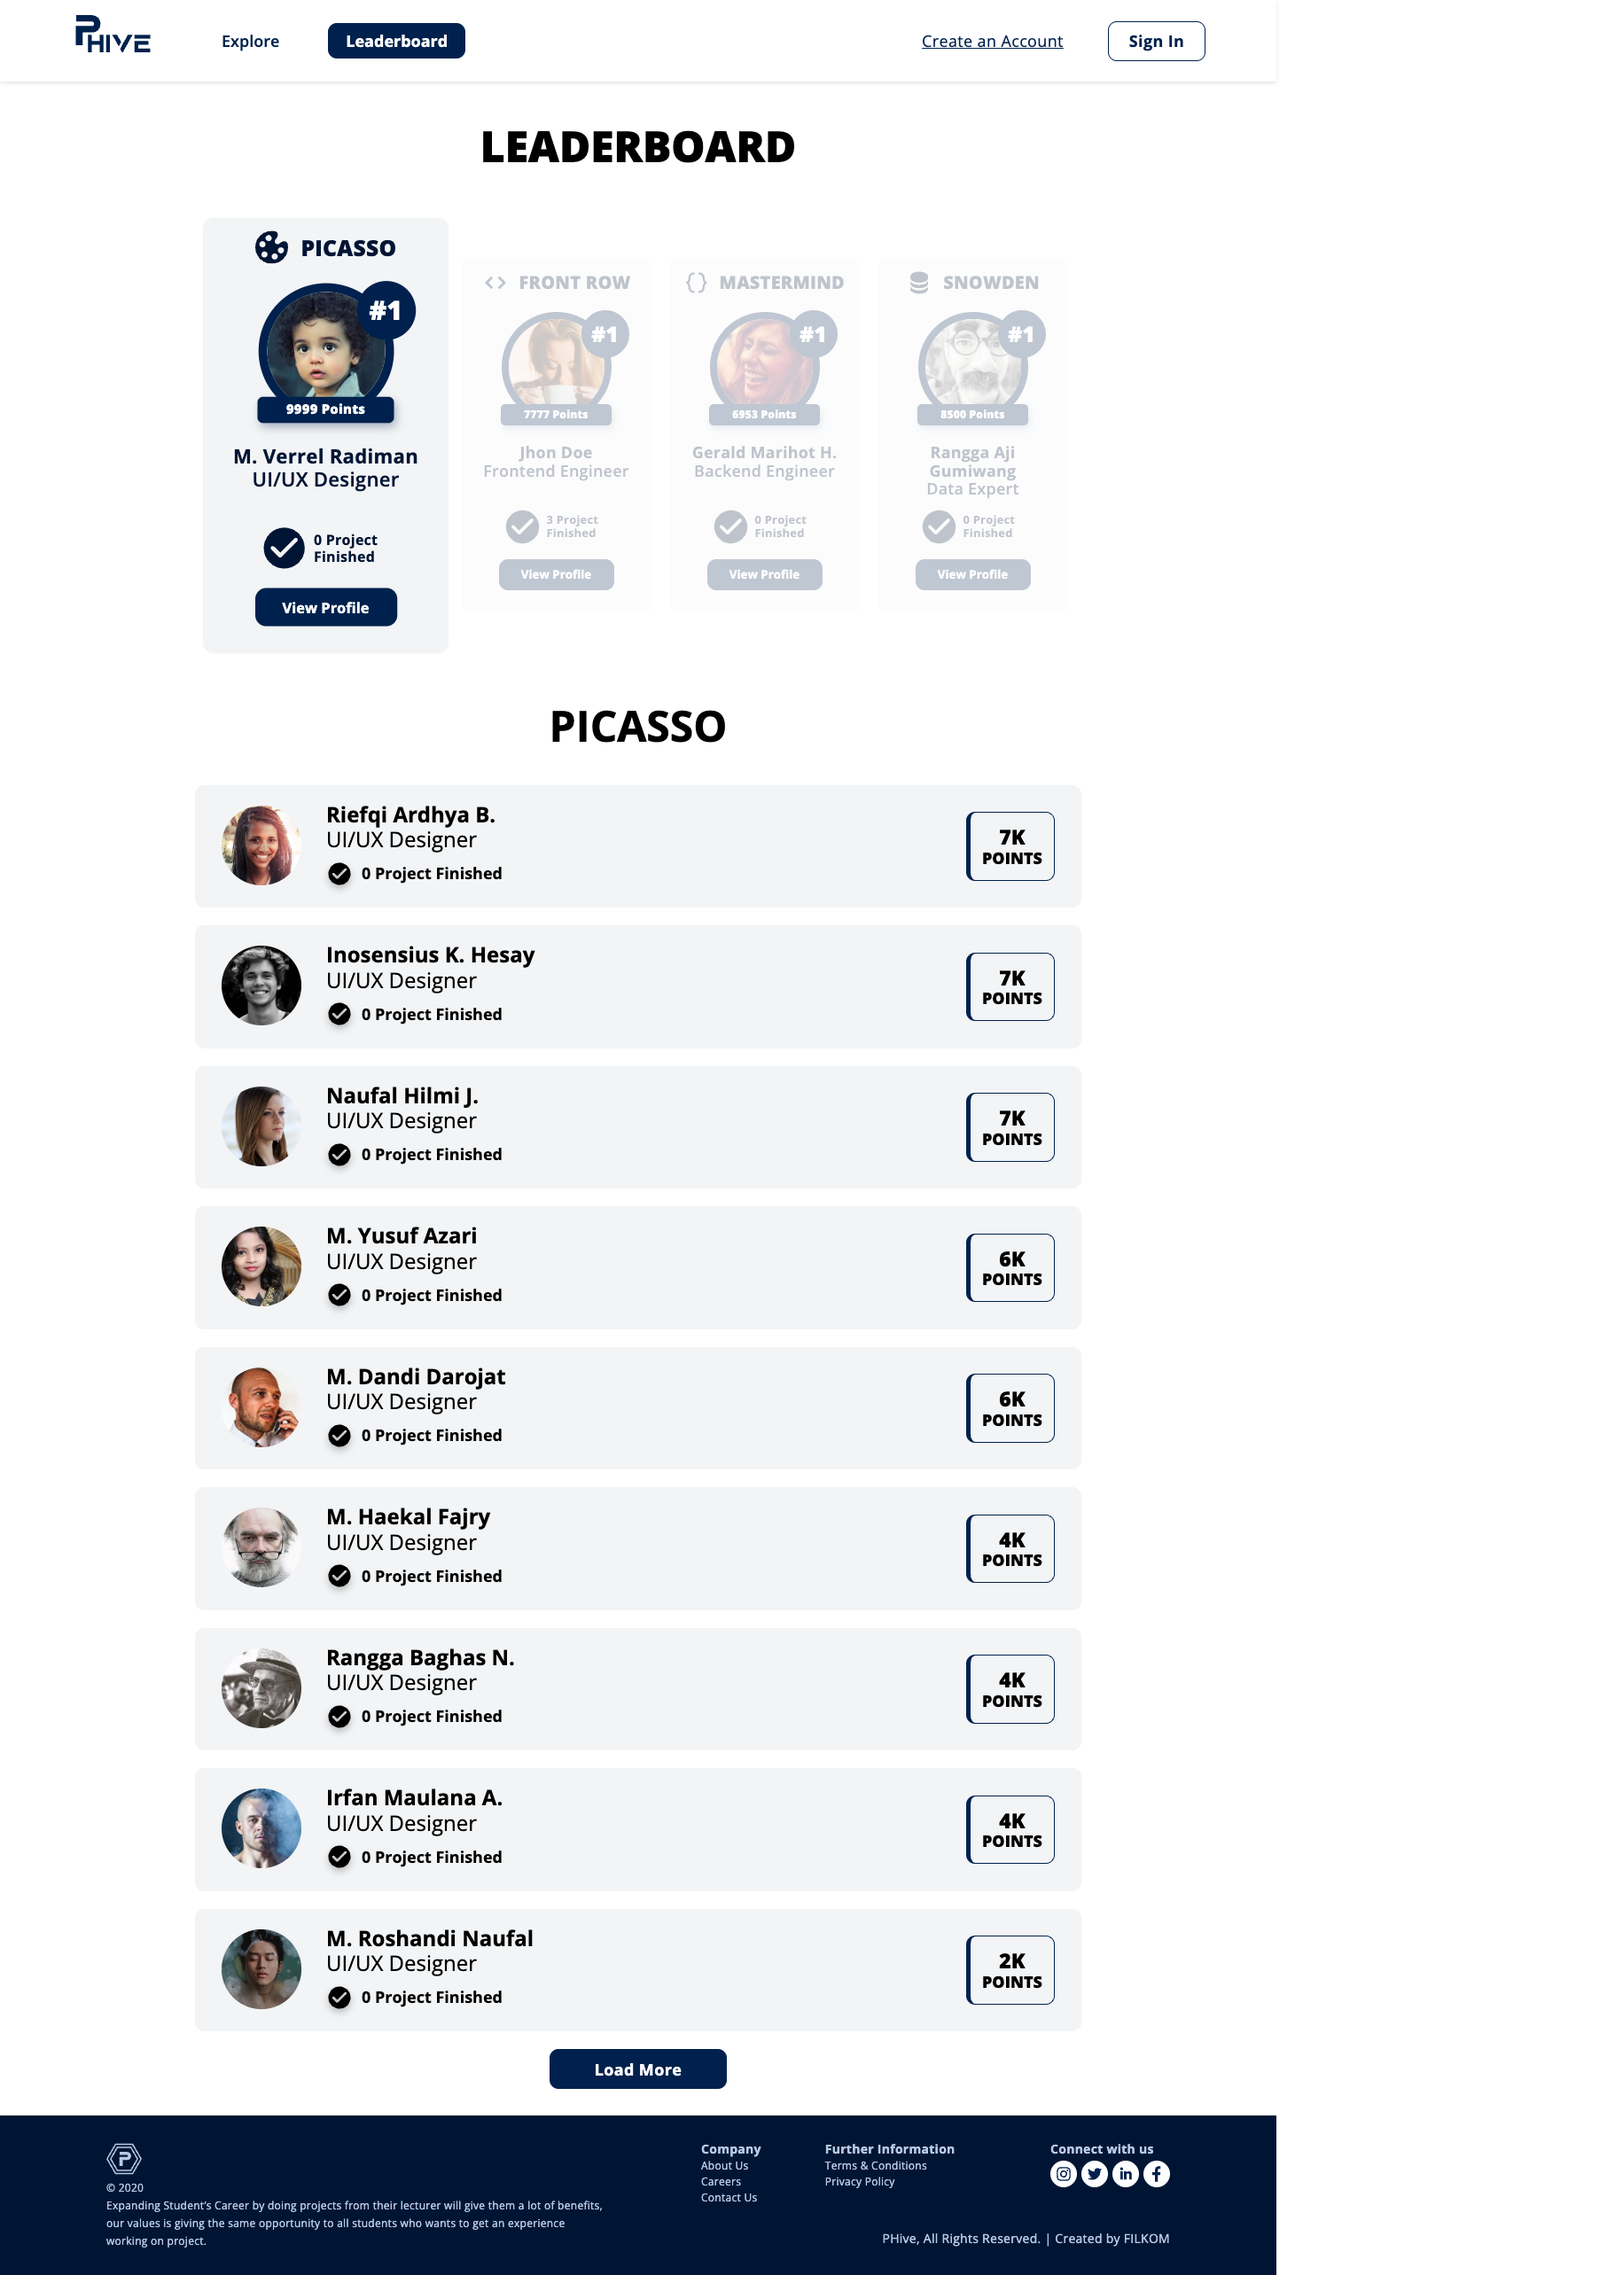
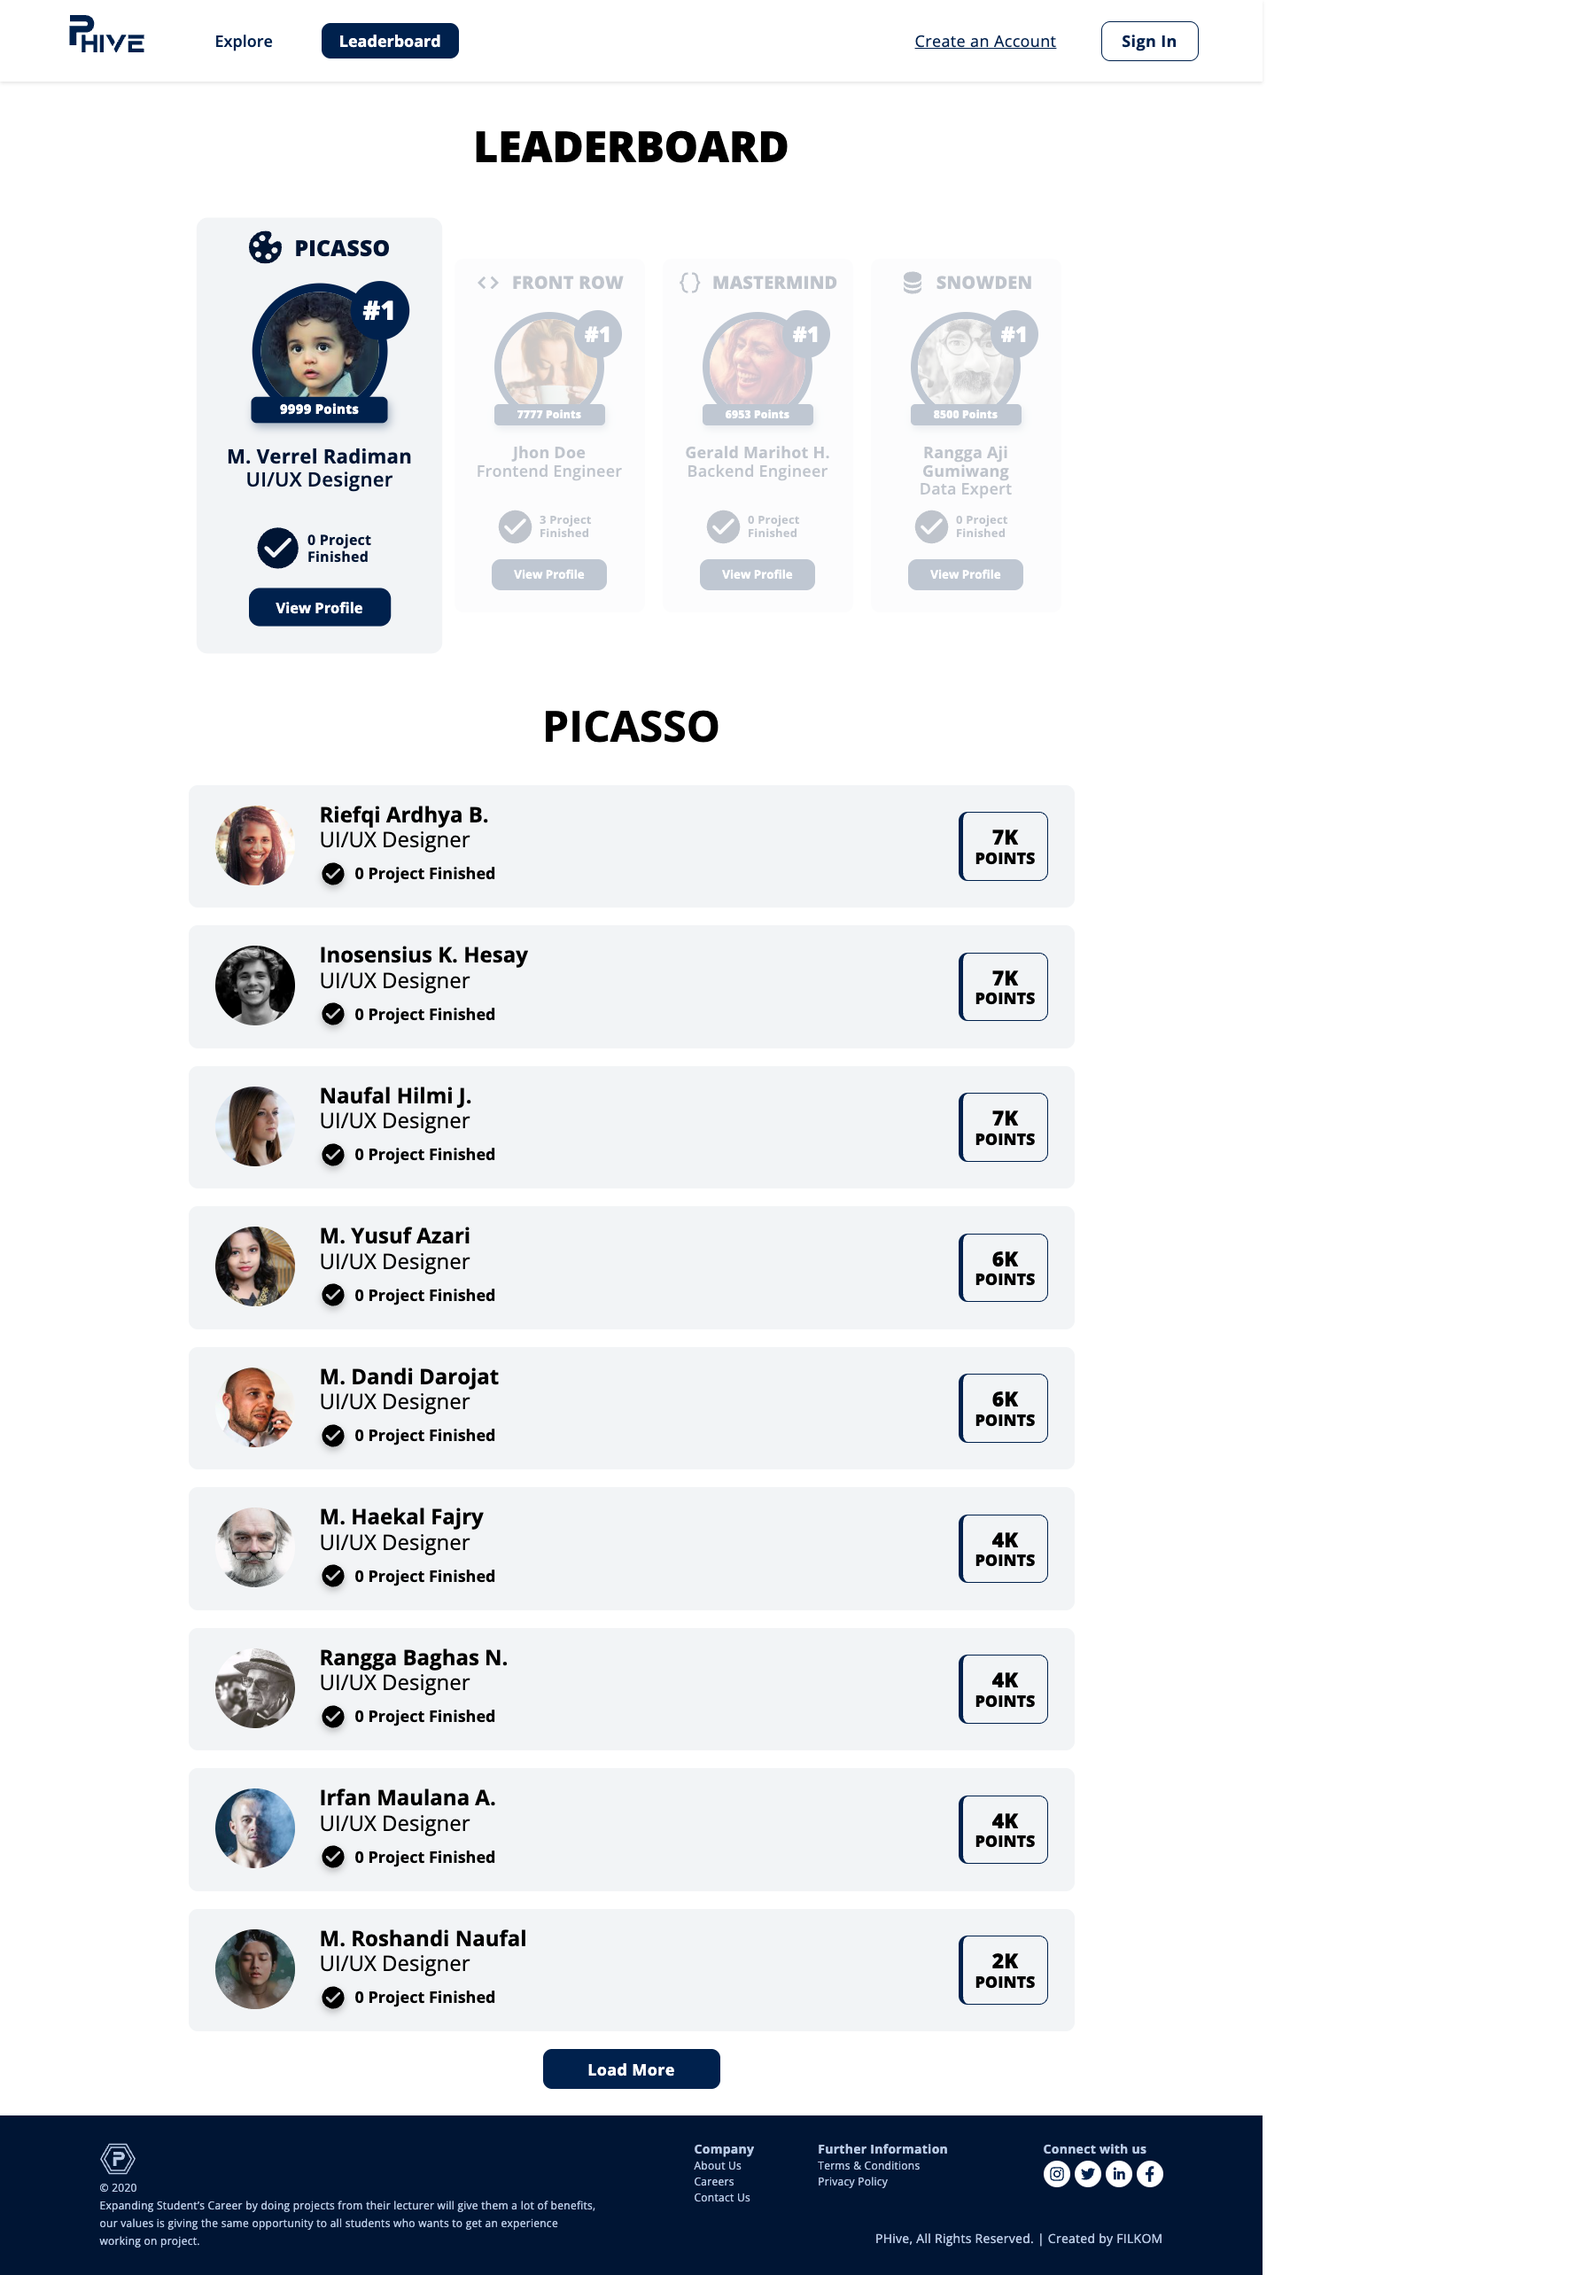
docs: recapture the comparison screenshots, and drop a stale attribution
The rewrite column was captured early in the migration, before most of the design
port — hero ornaments, leaderboard typography, avatar fallbacks. It showed a
version of the app that no longer exists and made the comparison meaningless.

Both columns are now captured the same way, which is the only thing that makes a
pair worth putting side by side: 1425px viewport, whole page, signed out, after
the entrance animations settle. Legacy from the running site, rewrite from the
current main. Ten images, five pairs, same five filenames in each folder.

Everything unpaired is gone. On the rewrite side those were the stale pre-port
captures; on the legacy side they were pages with no counterpart to compare
against. Both remain in history. That halves the directory to 4.8MB and leaves
nothing in it that misrepresents either app.

Also removed the second copyright line from LICENSE. It credited the
laravel-vue-spa starter kit the 2020 app was built on; this tree has no Vue and no
resources/js, so none of that work is here to credit. The legacy branch keeps the
line, because there it is still accurate.

diff --git a/docs/screenshots/README.md b/docs/screenshots/README.md
@@ -1,15 +1,36 @@
 # Screenshots
 
-Captures taken while porting the design, kept because a rewrite is worth being able to
-check against what it replaced.
+Five pages, captured twice: once from the original and once from the rewrite. A rewrite
+that set out to reproduce a design should be checkable against what it replaced.
 
-- **`legacy/`** — the original Laravel 7 + Vue 2 app, captured from the running site at
-  <https://phive.ivqonsanada.com>. The code is on the
+- **`legacy/`** — the Laravel 7 + Vue 2 app, from the running site at
+  <https://phive.ivqonsanada.com>. Its code is on the
   [`legacy`](https://github.com/ivqonsanada/phive/tree/legacy) branch.
-- **`rewrite/`** — the same screens in the Laravel 13 + Next.js 16 app.
+- **`rewrite/`** — the same pages in the Laravel 13 + Next.js 16 app.
 
-Both sets are desktop, 1425px wide, so a pair can be compared directly.
+## How to reproduce
 
-Only signed-out screens are here. Everything behind a login — inbox, party, project box,
-settings, shortlist, review — has no legacy counterpart to capture, because that would
-need an account on the old site.
+Both sets are captured identically, which is what makes a pair worth putting side by
+side: **1425px viewport, whole page, signed out**, after the entrance animations have
+settled. The two folders hold the same five filenames.
+
+Only signed-out pages are here. Everything behind a login — inbox, party, project box,
+settings, shortlist, review — has no legacy counterpart to capture without an account on
+the old site, so pairing those is not possible.
+
+When re-capturing the rewrite side from `pnpm dev`, hide the Next.js dev-tools badge
+first or it lands in the corner of the image:
+
+```js
+document.head.insertAdjacentHTML(
+  "beforeend",
+  "<style>nextjs-portal { display: none !important }</style>",
+);
+```
+
+Two differences in the images are the pages themselves, not the capture:
+
+- The legacy leaderboard comes out wider than the viewport (1798px) because its board
+  strip overflows horizontally. The rewrite's does not.
+- Page heights differ where the rewrite's content differs — the seeded demo data is not
+  the same data the old site is serving.

diff --git a/README.md b/README.md
@@ -43,15 +43,16 @@ The rewrite reproduces the original's design rather than replacing it — the po
 measured against the running legacy site, not eyeballed. Left is Laravel 7 + Vue 2;
 right is Laravel 13 + Next.js 16.
 
-|        | 2020 · Vue 2                                       | Now · Next.js 16                                     |
-| ------ | -------------------------------------------------- | ---------------------------------------------------- |
-| Home   | ![](docs/screenshots/legacy/home.png)               | ![](docs/screenshots/rewrite/home.png)                |
-| Explore| ![](docs/screenshots/legacy/explore.png)            | ![](docs/screenshots/rewrite/explore.png)             |
-| Board  | ![](docs/screenshots/legacy/leaderboard.png)        | ![](docs/screenshots/rewrite/leaderboard.png)         |
-| Project| ![](docs/screenshots/legacy/project.png)            | ![](docs/screenshots/rewrite/project.png)             |
-| Sign in| ![](docs/screenshots/legacy/login.png)              | ![](docs/screenshots/rewrite/login.png)               |
+|             | 2020 · Laravel 7 + Vue 2                     | Now · Laravel 13 + Next.js 16                 |
+| ----------- | -------------------------------------------- | --------------------------------------------- |
+| Home        | ![](docs/screenshots/legacy/home.png)        | ![](docs/screenshots/rewrite/home.png)        |
+| Explore     | ![](docs/screenshots/legacy/explore.png)     | ![](docs/screenshots/rewrite/explore.png)     |
+| Leaderboard | ![](docs/screenshots/legacy/leaderboard.png) | ![](docs/screenshots/rewrite/leaderboard.png) |
+| Sign in     | ![](docs/screenshots/legacy/login.png)       | ![](docs/screenshots/rewrite/login.png)       |
+| Register    | ![](docs/screenshots/legacy/register.png)    | ![](docs/screenshots/rewrite/register.png)    |
 
-More in [`docs/screenshots/`](docs/screenshots).
+Every pair was captured the same way — 1425px wide, whole page, signed out — so the two
+columns are directly comparable. See [`docs/screenshots/`](docs/screenshots).
 
 ### Why two apps
 
